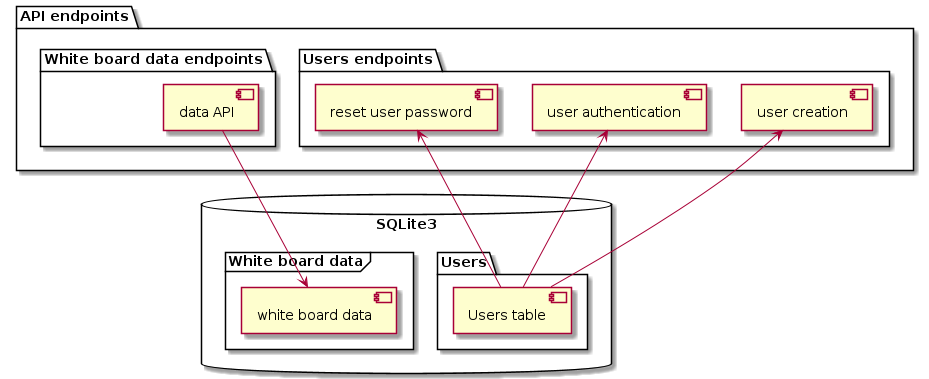
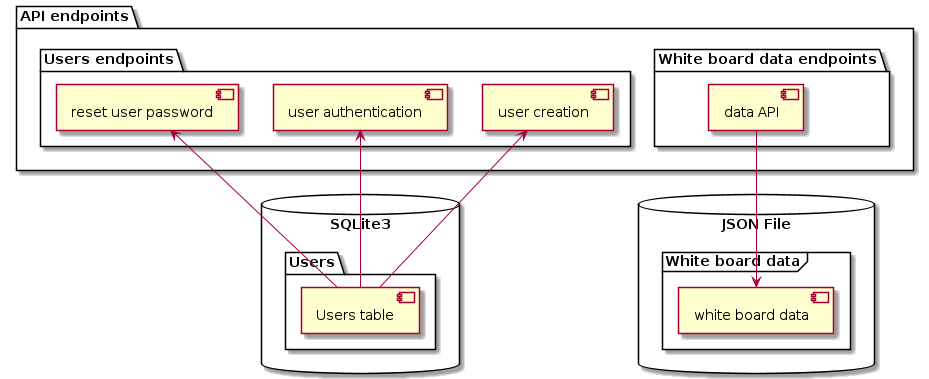
Rounded off readme and deployment instructions.
Changes:
 * Cleaned up debugging prints.
 * Updated readme with build instructions.

Changed region(s): [[0.1873, 0.4934, 0.9677, 1.0], [0.0312, 0.1161, 0.9677, 0.4063], [0.3746, 0.3483, 0.4058, 0.3773]]

diff --git a/VirtualWhiteBoard/backend/src/backend.py b/VirtualWhiteBoard/backend/src/backend.py
@@ -1,20 +1,13 @@
 # VirtualWhiteBoard project
 from logger.log import get_logger, Logger
-from database.db_interface import Interface
 from api.api import init_api
 
 logger: Logger = get_logger(__file__)
 
 
-def init_backend():
-    logger.info("Testing")
-    db_interface = Interface()
-    init_api()
-
-
 def main():
     logger.info("Starting backend")
-    init_backend()
+    init_api()
 
 
 if __name__ == "__main__":

diff --git a/VirtualWhiteBoard/backend/src/database/db_interface.py b/VirtualWhiteBoard/backend/src/database/db_interface.py
@@ -109,7 +109,6 @@ class Interface(DatabaseConnection):
     def reset_passsword(self, user_name: str, password: str, new_password: str):
         state: ActionState = self.authenticate_user(
             user_name, password)
-        self.__logger.info(ActionState.FAILED == state)
 
         if ActionState.FAILED == state:
             self.__logger.debug("Authentication failed on reset password")

diff --git a/VirtualWhiteBoard/backend/src/api/api.py b/VirtualWhiteBoard/backend/src/api/api.py
@@ -8,8 +8,6 @@ from api.white_board_api import ImageLinks, MotivationalText
 # Third party library
 from flask import Flask
 from flask_restful import Api
-import pandas as pd
-import ast
 
 
 def setup_api():
@@ -30,4 +28,4 @@ def setup_api():
 def init_api():
     app = setup_api()
 
-    app.run()
+    app.run(host="0.0.0.0", debug=True)

diff --git a/VirtualWhiteBoard/backend/src/api/login_api.py b/VirtualWhiteBoard/backend/src/api/login_api.py
@@ -25,7 +25,6 @@ class Users(Resource):
         parser.add_argument('email', required=False)
 
         args = parser.parse_args()
-        self.__logger.debug(f"{args}")
         state: ActionState = self.__db_interface.create_user(
             args['user_name'], args["password"], args["email"])
 

diff --git a/README.md b/README.md
@@ -1,24 +1,37 @@
 # CIC-Test
-
 I chose the Virtuel White Board and focused on the backend.
 
 # Virtual White Board
 
 ## Intro 
-As we talk about fast mockup i will go with python as backend and if I would do a frontend i would do a React based website in Javascript on the frontend connecting with the API on the backend.
+
+**Choice of language:**
+
+As we talk about fast mockup i will go with python as backend and if I would do a frontend i would do a React based website in Javascript on the frontend connecting with the API on the backend. If i were to implement a scaleable and fast API i would look towards GO or rust. 
+
+**Choice of API framework:**
+
+I chose flask because it is famous for being fast to do mockup in for a REST api in. The api implemented is not very secure. and are lacking authentication parameters.
+
+**Choice of databases:**
+I went with two different kind of databases, an SQLite for user data and a simple json schema and reading and writing that to a file for white board data.
+
+I deliberately implemented unit tests as i like developing that way and also in this instance it is nice verifying a long the way that the logic is correct.
 
 ## Backend architechture
 ### API 
-The API needs to support both login and data extraction for contents on the WhiteBoard. The architecture will look something like this. Did not have time to expand too much on the white board data.  
+The API needs to support both login and data extraction for contents on the WhiteBoard. The architecture will look something like this. Did not have time to expand too much on the white board data.
 
 <p align="center">
 <img src="./VirtualWhiteBoard/backend/doc/backend_components.png">
 </p>
 
+
 ### Login
-A database setup should be provided for login credentials. Requirements
- * Generic login without an email attached to it.
- * Ability to reset password. Hence, an email need to be attached to this login.
+
+Requirements for database storage of user information. 
+ * Generic login without an email attached to it for company login.
+ * Ability to reset password. Hence, an email need to be attached to this type login.
  * Personal logins with attached email.
 
 <p align="center">
@@ -26,10 +39,36 @@ A database setup should be provided for login credentials. Requirements
 </p>
 
 ## Backend deployment
-Start the docker-compose file.
 
-### Vitual board content
+### By docker
+Before being able to deploy either have docker and docker-compose installed. If only deploying by docker go to _./VirtualWhiteBoard/backend_ and run the following two commands.
+
+```bash
+user$ sudo docker build -t virtual_board_backend .
+user$ sudo docker run --rm -it virtual_board_backend
+```
 
 
-## Frontend 
+For deploying the backend with docker-compose go to root directory where the _docker-compose.yml_ and call the command:
 
+```bash
+user$ docker-compose up
+```
+
+### By pip3 and python interpreter
+Go to _VirtualWhiteBoard/backend_ and install packages
+
+```bash
+user$ pip install -r requirements.txt
+```
+
+and then run _backend.py_ inside _src_
+
+```bash
+user$ python3 src/backend.py
+```
+
+### Virtual board content
+Implemented backend for: 
+ * Motivational text
+ * Image links
